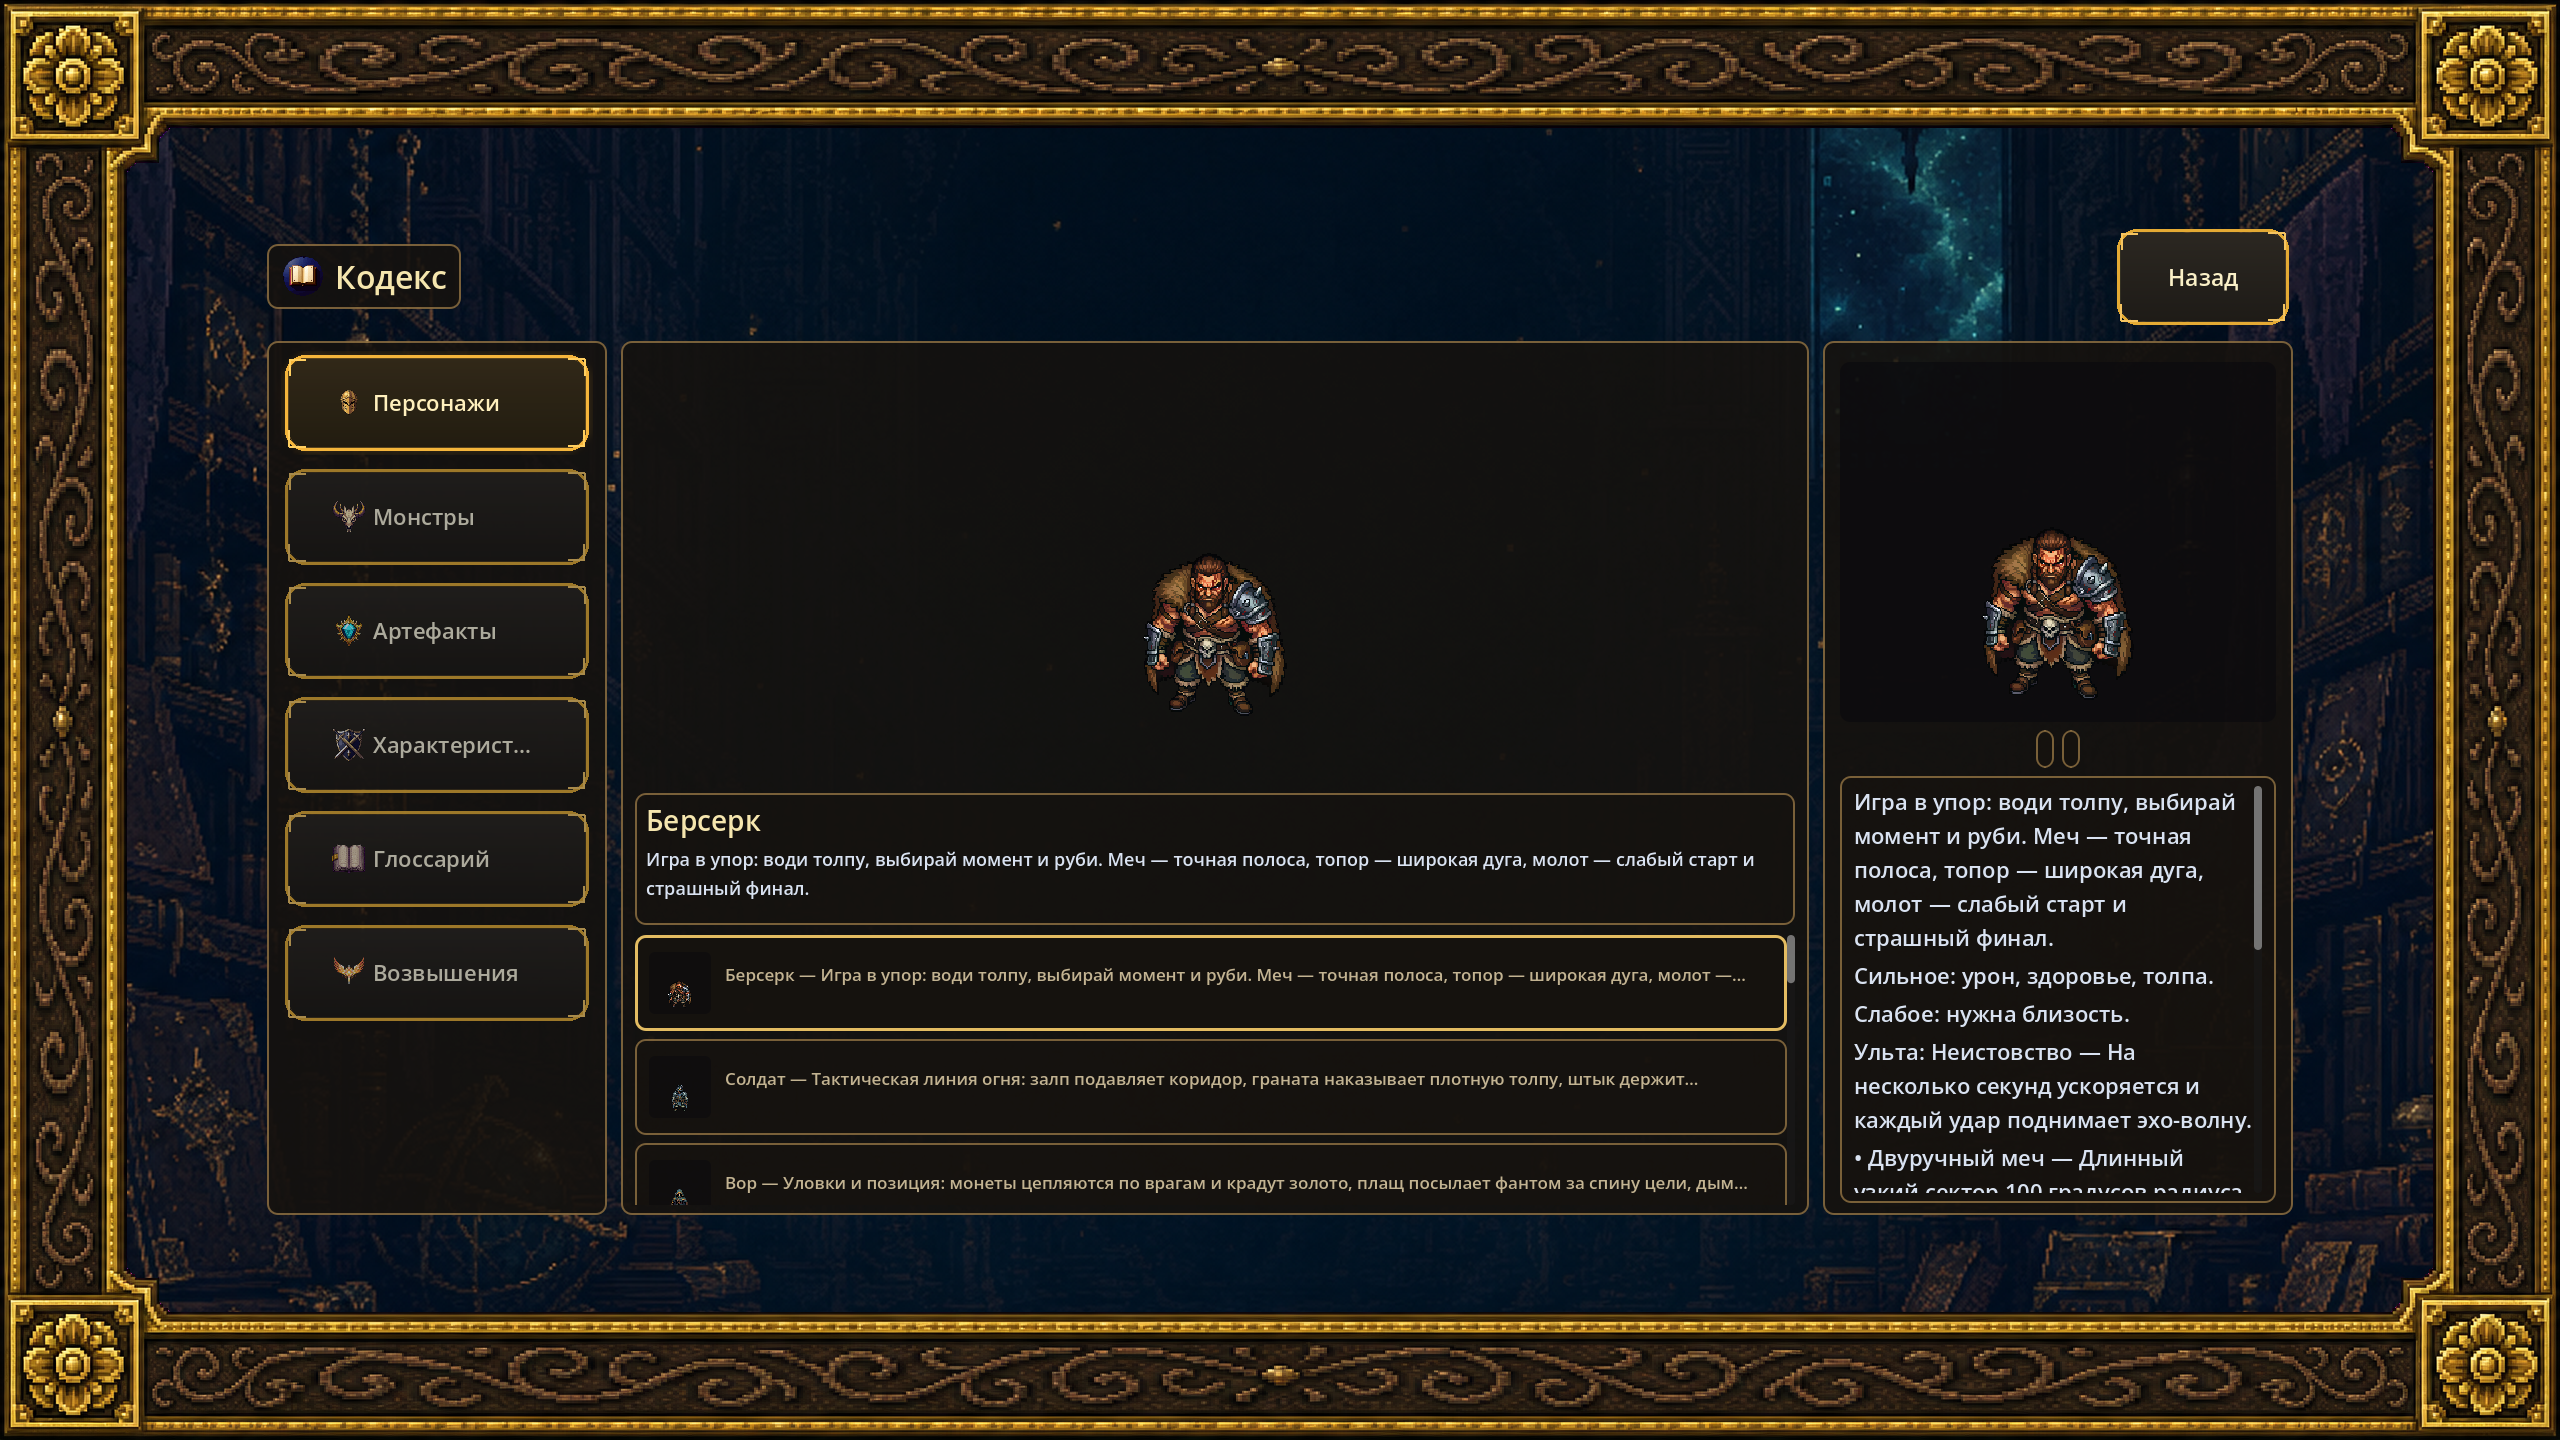
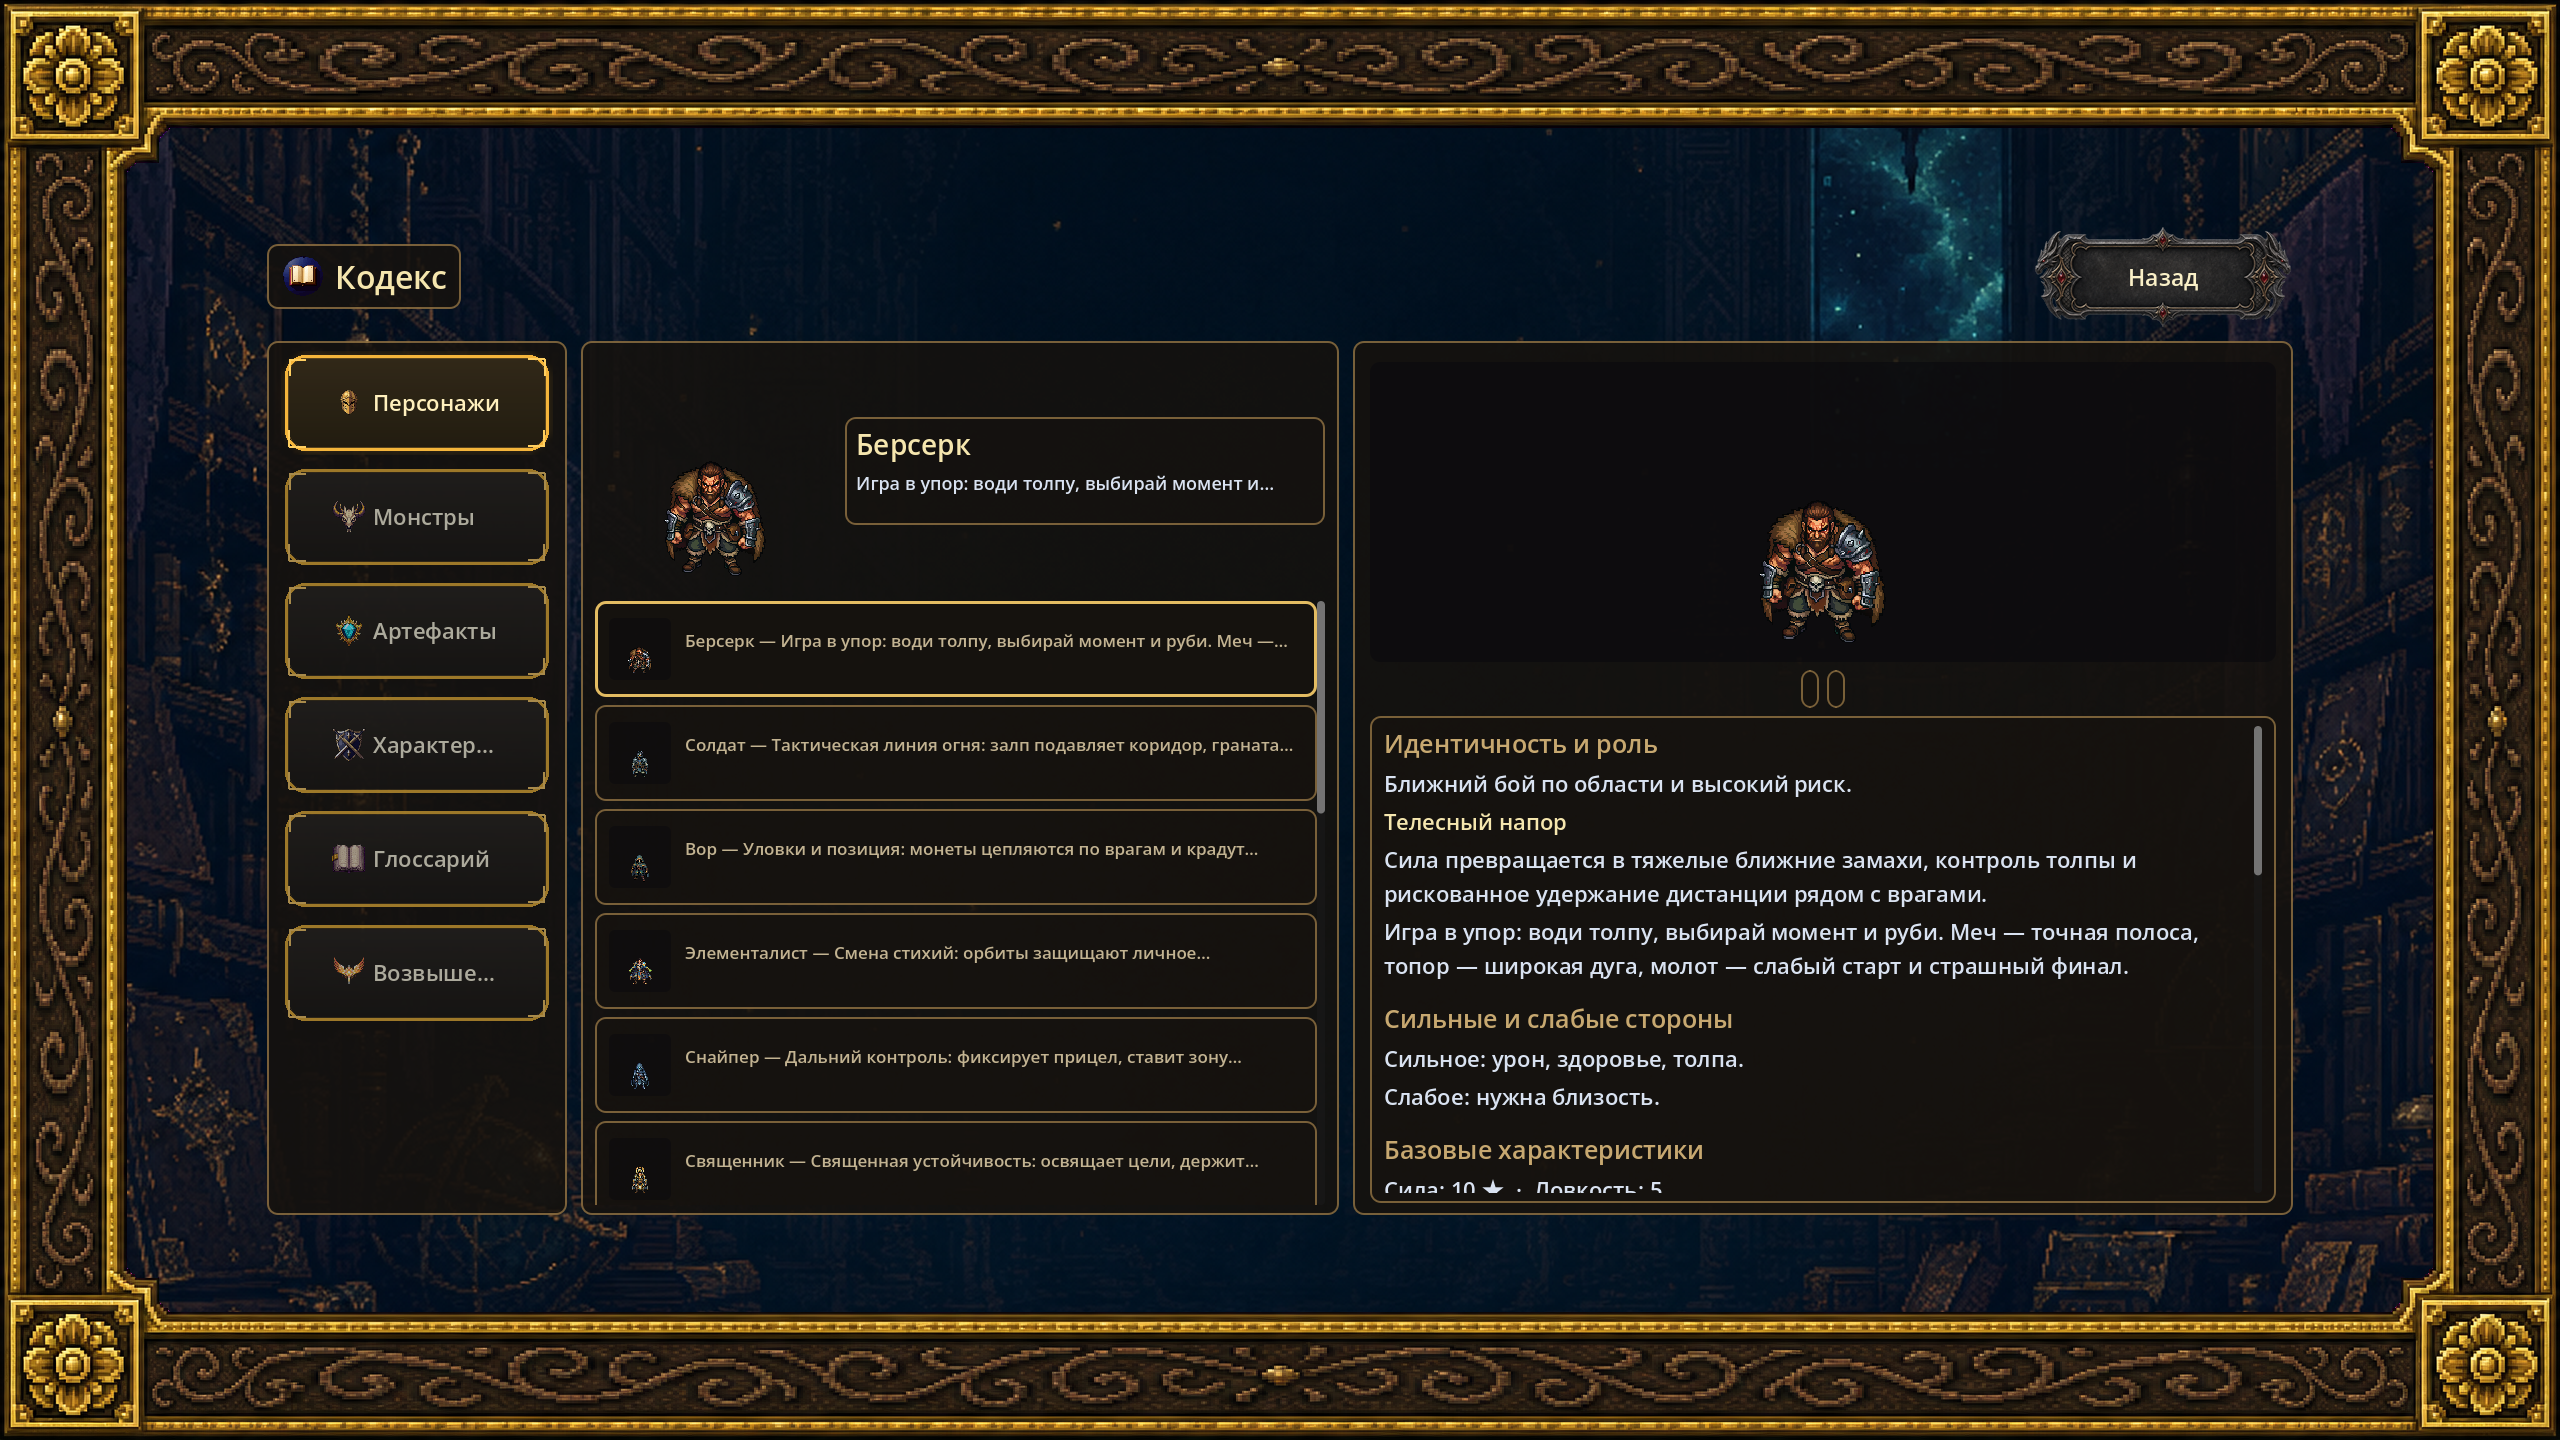
SCRUM-881 SCRUM-882 QA PASSED: вердикты, свежие превью 5 экранов, sync map

diff --git a/docs/tasks/design_ui_feedback_polish_settings_hero_task.md b/docs/tasks/design_ui_feedback_polish_settings_hero_task.md
@@ -1,7 +1,7 @@
 # UI-полировка по фидбеку: табы настроек, выравнивание, hover, CTA и карусель выбора героя
 
 - Jira: SCRUM-882
-- Статус: in_progress
+- Статус: done
 - Контур: Claude
 - Owner: Claude Fable 5 (интерактивный чат пользователя)
 - Thread: claude-fable5-ui-unify-20260708
@@ -51,3 +51,24 @@
 ## Прогресс
 
 - 2026-07-08: глобальные правки (hover, маппинг CTA) влиты оркестратором; спека — Claude Fable 5.
+- 2026-07-08: ветки settings-polish (70314d65) и hero-polish (64c32cb2) влиты в dev:
+  табы настроек на плите back_260x104 с фитом текста+иконки, колонка 920·s по
+  центру с левым выравниванием; CTA «Выбрать» на плите main_menu под возвышением
+  (ширина колонны, аспект 380:104), досье top == portrait top (0px), высота −10%,
+  счётчик карусели «N–M из 17» + числа скрытых на стрелках; hover +12% поверх
+  hover-арта. Дополнительно: единый «Назад» 260×h везде + шапка атласа
+  (Созвездие+эмблемы слева, Гильдия+пыль по центру).
+
+## QA-Вердикт
+
+- Статус: PASSED
+- Дата: 2026-07-08, судья: Claude Fable 5 (оркестратор)
+- Прогоны на объединённом dev (godot_gate, EXIT=0): runtime_smoke (полный),
+  ui_no_overlap_matrix (7 вьюпортов), hero_select_pixellab_layout (5 вьюпортов),
+  gamepad_settings_rebind, gamepad_full_flow_smoke; в ветках агентов
+  дополнительно те же наборы — PASS.
+- Визуальная приёмка скриншотов 2560×1440 (герой/настройки/кодекс/атлас):
+  все пункты фидбека выполнены, растяжек нет, контент в safe-зоне.
+- Превью: docs/design/previews/atlas_style_{hero_select,settings,codex,atlas}_2560x1440.png.
+- Disk cleanup: removed /private/tmp/fsd_wt_{settings3,hero2} (+ .godot-кэши),
+  ветки settings-polish/hero-polish удалены после влития.

diff --git a/docs/tasks/design_codex_center_compact_wide_dossier_task.md b/docs/tasks/design_codex_center_compact_wide_dossier_task.md
@@ -1,7 +1,7 @@
 # Кодекс: компактный центральный объект и широкое глубокое досье справа
 
 - Jira: SCRUM-881
-- Статус: in_progress
+- Статус: done
 - Контур: Claude
 - Owner: Claude Fable 5 (интерактивный чат пользователя)
 - Thread: claude-fable5-ui-unify-20260708
@@ -44,3 +44,21 @@
 ## Прогресс
 
 - 2026-07-08: спека по фидбеку пользователя — Claude Fable 5.
+- 2026-07-08: агент codex-dossier (коммит 2541ae4c) влит в dev (2f5cce29): центр
+  компактный (фикс-бокс + сводка ≤2 строк), досье clamp(940s,420,960) с
+  секциями из реальных данных (6 секций у персонажей, боевые параметры
+  монстров, эффекты артефактов); back 260×h (единый возврат, доп. фидбек).
+
+## QA-Вердикт
+
+- Статус: PASSED
+- Дата: 2026-07-08, судья: Claude Fable 5 (оркестратор)
+- Прогоны (godot_gate, EXIT=0): codex_data_smoke, codex_discovery_contract,
+  ui_no_overlap_matrix (7 вьюпортов), gamepad_menu_focus, полный runtime_smoke;
+  после влития в dev повторно: codex_data_smoke + матрица + смоук в составе
+  финального прогона SCRUM-882.
+- Визуальная приёмка скриншота 2560×1440: центр — картинка+краткая сводка,
+  список получил высоту, досье ×2 с бронзовыми секциями, контент в safe-зоне.
+- Превью: docs/design/previews/atlas_style_codex_2560x1440.png (обновлено).
+- Disk cleanup: removed /private/tmp/fsd_wt_codex2 (+ .godot-кэш), ветка
+  codex-dossier удалена после влития.
